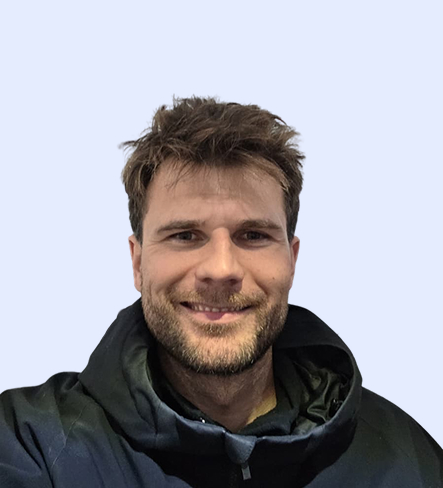
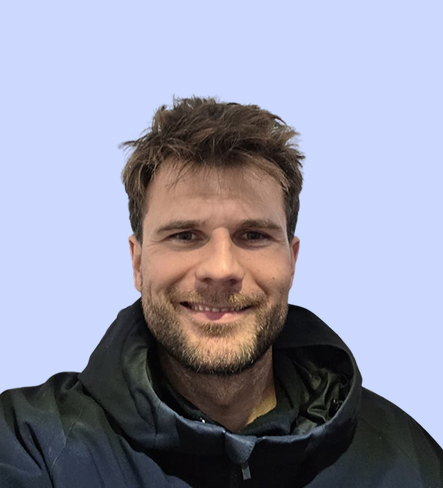
New Section: Teacher

diff --git a/index.html b/index.html
@@ -160,7 +160,7 @@
             </p>
           </div>
 
-          <div class="grid grid-cols-1 gap-10 text-left lg:grid-cols-2">
+          <div class="grid grid-cols-1 gap-10 text-left md:grid-cols-2">
             <div class="flex flex-col items-center gap-6 rounded-3xl border-[6px] border-primary bg-white p-8 md:border-[8px]">
               <span class="flex size-44 items-center justify-center rounded-full bg-primary/10 p-10">
                 <img src="/images/illustrations/laptop.svg" alt="" class="size-24" />
@@ -197,6 +197,27 @@
       </section>
 
       <section data-component="testimonials"></section>
+
+      <section id="kursleiter" aria-labelledby="kursleiter-heading" class="bg-neutral-100">
+        <div class="mx-auto grid max-w-6xl grid-cols-1 gap-10 px-6 py-12 md:grid-cols-2 md:items-start md:py-20 lg:py-32">
+          <div class="relative aspect-[443/488] overflow-hidden rounded-3xl border-[6px] border-primary md:border-[8px]">
+            <img src="/images/home-teacher.jpg" alt="Jasper, Kursleiter" class="h-full w-full object-cover" />
+          </div>
+
+          <div class="flex flex-col gap-6">
+            <h2 id="kursleiter-heading" class="font-poppins text-h1 text-black">
+              Hey, ich bin Jasper.<br />
+              Dein Kursleiter.
+            </h2>
+            <div class="flex flex-col gap-4 font-inter text-body text-black">
+              <p>Seit 2019 bin ich Industriemeister Metall und begleite als Dozent angehende Industriemeister:innen auf ihrem Weg zur Prüfung. Technik begeistert mich schon mein ganzes Leben – von meiner selbst gebauten CNC-Fräsmaschine bis zur Arbeit in der Luft- und Raumfahrt.</p>
+              <p>Ich bin überzeugt: Jeder kann NTG bestehen – nicht durch Auswendiglernen, sondern indem man Zusammenhänge wirklich begreift. Deshalb ist mir eine Lernumgebung wichtig, in der Fragen ausdrücklich erwünscht sind und du Schritt für Schritt verstehst, was du eigentlich tust.</p>
+              <p>Mein Ziel ist nicht nur, dass du die Prüfung bestehst, sondern dass du am Ende sagst: „Eigentlich ist NTG gar nicht so kompliziert.“</p>
+              <p>Jasper</p>
+            </div>
+          </div>
+        </div>
+      </section>
     </main>
     <footer data-component="footer"></footer>
     <script type="module" src="/src/main.js"></script>
